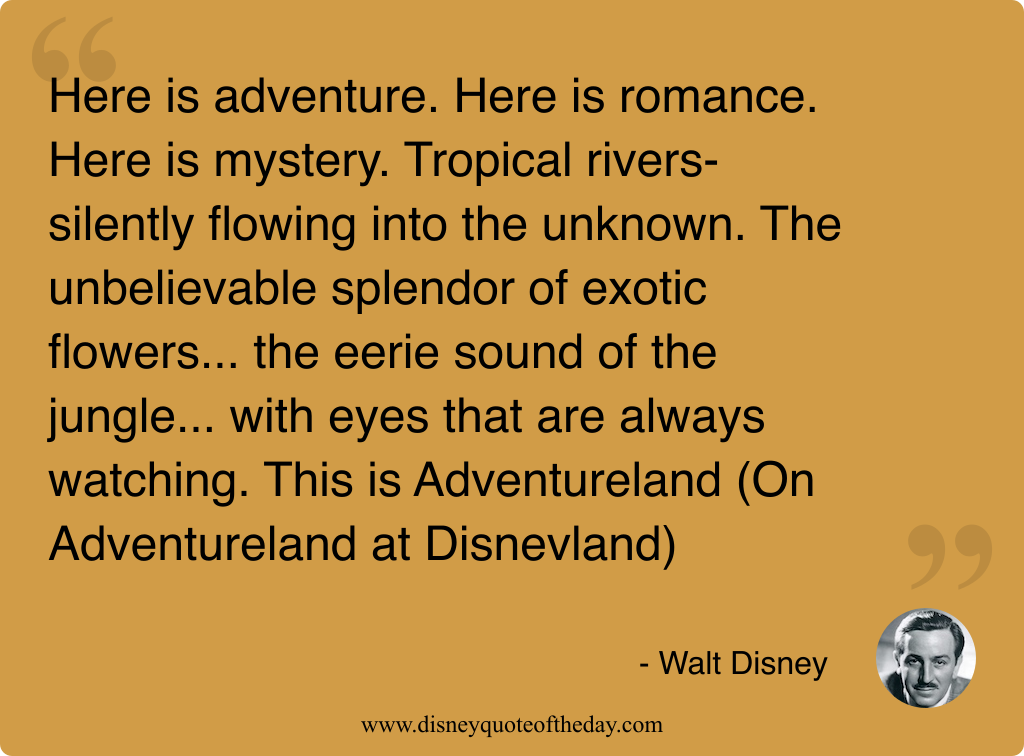
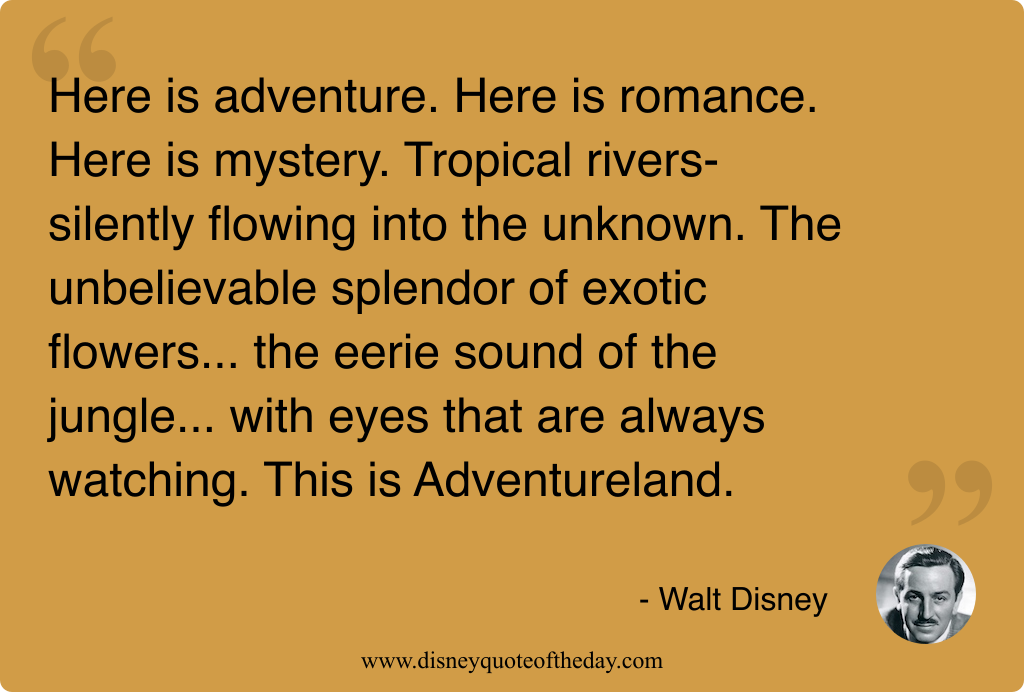
Clean up scripts and add an update_quote_images script

diff --git a/_quotes/2.md b/_quotes/2.md
@@ -7,4 +7,4 @@ speaker:
 color: '#d19c47'
 releaseDate: '2023-08-02'
 ---
-Here is adventure. Here is romance. Here is mystery. Tropical rivers- silently flowing into the unknown. The unbelievable splendor of exotic flowers... the eerie sound of the jungle... with eyes that are always watching. This is Adventureland  (On Adventureland at Disnevland)
+Here is adventure. Here is romance. Here is mystery. Tropical rivers- silently flowing into the unknown. The unbelievable splendor of exotic flowers... the eerie sound of the jungle... with eyes that are always watching. This is Adventureland.
